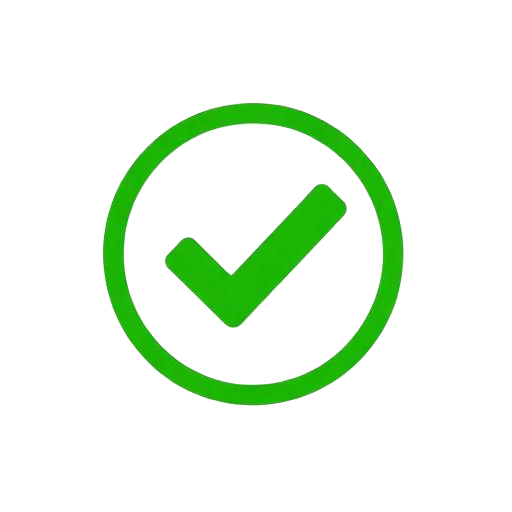
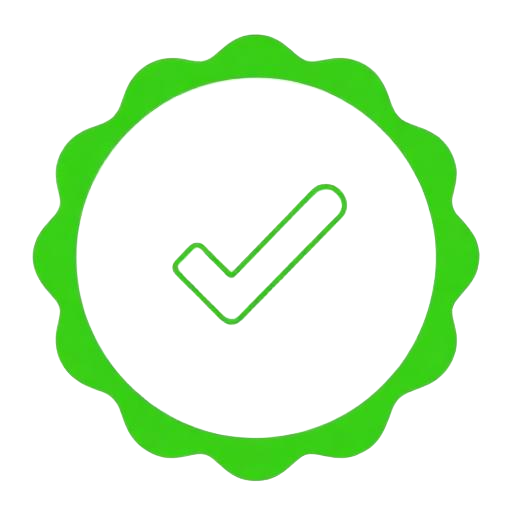
Update follows and badge flow

Changed region(s): [[0.0625, 0.0625, 0.9375, 0.9375], [0.3125, 0.3438, 0.6875, 0.6562]]

diff --git a/src/pages/ViewProfilePage.tsx b/src/pages/ViewProfilePage.tsx
@@ -31,6 +31,7 @@ const ViewProfilePage = () => {
   const [selectedPhoto, setSelectedPhoto] = useState<string | null>(null);
   const [hasLiked, setHasLiked] = useState(false);
   const [isFollowing, setIsFollowing] = useState(false);
+  const [theyFollowMe, setTheyFollowMe] = useState(false);
   const [followersCount, setFollowersCount] = useState(0);
   const [followingCount, setFollowingCount] = useState(0);
   const [mutualText, setMutualText] = useState("");
@@ -44,6 +45,7 @@ const ViewProfilePage = () => {
     if (!user || !id) return;
     checkLiked();
     checkFollowing();
+    checkTheyFollowMe();
     fetchFollowCounts();
     fetchMutuals();
   }, [user, id]);
@@ -86,6 +88,16 @@ const ViewProfilePage = () => {
     setIsFollowing(!!data);
   };
 
+  const checkTheyFollowMe = async () => {
+    const { data } = await supabase
+      .from("follows")
+      .select("id")
+      .eq("follower_id", id!)
+      .eq("following_id", user!.id)
+      .maybeSingle();
+    setTheyFollowMe(!!data);
+  };
+
   const fetchFollowCounts = async () => {
     const [{ count: followers }, { count: following }] = await Promise.all([
       supabase.from("follows").select("id", { count: "exact", head: true }).eq("following_id", id!),
@@ -97,12 +109,10 @@ const ViewProfilePage = () => {
 
   const fetchMutuals = async () => {
     if (!user || !id || user.id === id) return;
-    // A = users current_user follows
     const { data: myFollowing } = await supabase
       .from("follows")
       .select("following_id")
       .eq("follower_id", user.id);
-    // B = users who follow profile_user
     const { data: theirFollowers } = await supabase
       .from("follows")
       .select("follower_id")
@@ -141,11 +151,19 @@ const ViewProfilePage = () => {
       to_user_id: profile.id,
       is_like: true,
     });
+    // Fetch current user's name for notification
+    const { data: myProfile } = await supabase
+      .from("profiles")
+      .select("name")
+      .eq("id", user.id)
+      .single();
+    const myName = myProfile?.name || "Someone";
     await supabase.from("notifications").insert({
       user_id: profile.id,
       type: "like",
-      title: "Someone liked you!",
-      message: "A student liked your profile 💕",
+      title: `${myName} liked your profile!`,
+      message: `${myName} liked your profile 💕`,
+      related_id: user.id,
     });
     setHasLiked(true);
   };
@@ -160,7 +178,28 @@ const ViewProfilePage = () => {
       await supabase.from("follows").insert({ follower_id: user.id, following_id: profile.id });
       setIsFollowing(true);
       setFollowersCount(c => c + 1);
+      // Send follow notification
+      const { data: myProfile } = await supabase
+        .from("profiles")
+        .select("name")
+        .eq("id", user.id)
+        .single();
+      const myName = myProfile?.name || "Someone";
+      await supabase.from("notifications").insert({
+        user_id: profile.id,
+        type: "follow",
+        title: `${myName} followed you!`,
+        message: `${myName} started following you 👋`,
+        related_id: user.id,
+      });
     }
+  };
+
+  // Determine follow button label
+  const getFollowLabel = () => {
+    if (isFollowing) return "Following";
+    if (theyFollowMe) return "Follow Back";
+    return "Follow";
   };
 
   if (loading) {
@@ -199,7 +238,7 @@ const ViewProfilePage = () => {
           </button>
           <h1 className="font-display text-lg font-bold text-foreground">{profile.name}</h1>
           {profile.is_verified && (
-            <img src={verifiedBadge} alt="Verified" className="h-[25px] w-[25px]" />
+            <img src={verifiedBadge} alt="Verified" className="h-[25px] w-[25px] object-contain" />
           )}
         </div>
       </div>
@@ -244,7 +283,7 @@ const ViewProfilePage = () => {
             }`}
           >
             {isFollowing ? <UserCheck className="h-4 w-4" /> : <UserPlus className="h-4 w-4" />}
-            {isFollowing ? "Following" : "Follow"}
+            {getFollowLabel()}
           </button>
         )}
 

diff --git a/src/pages/NotificationsPage.tsx b/src/pages/NotificationsPage.tsx
@@ -2,7 +2,7 @@ import { useState, useEffect } from "react";
 import BottomNav from "@/components/BottomNav";
 import { useAuth } from "@/contexts/AuthContext";
 import { supabase } from "@/integrations/supabase/client";
-import { ArrowLeft, Bell, Heart, Users, Shield, Search as SearchIcon, MessageCircle, Check } from "lucide-react";
+import { ArrowLeft, Bell, Heart, Users, Shield, Search as SearchIcon, MessageCircle, Check, UserPlus } from "lucide-react";
 import { useNavigate } from "react-router-dom";
 
 interface Notification {
@@ -12,11 +12,13 @@ interface Notification {
   message: string;
   is_read: boolean;
   created_at: string;
+  related_id: string | null;
 }
 
 const typeIcons: Record<string, React.ReactNode> = {
   like: <Heart className="h-4 w-4 text-pink-500" />,
   match: <Users className="h-4 w-4 text-primary" />,
+  follow: <UserPlus className="h-4 w-4 text-primary" />,
   verification: <Shield className="h-4 w-4 text-accent" />,
   lost_found: <SearchIcon className="h-4 w-4 text-muted-foreground" />,
   confession: <MessageCircle className="h-4 w-4 text-secondary" />,
@@ -55,11 +57,18 @@ const NotificationsPage = () => {
     setLoading(false);
   };
 
-  const markAsRead = async (id: string) => {
-    await supabase.from("notifications").update({ is_read: true }).eq("id", id);
-    setNotifications((prev) =>
-      prev.map((n) => (n.id === id ? { ...n, is_read: true } : n))
-    );
+  const handleNotificationClick = async (notif: Notification) => {
+    // Mark as read
+    if (!notif.is_read) {
+      await supabase.from("notifications").update({ is_read: true }).eq("id", notif.id);
+      setNotifications((prev) =>
+        prev.map((n) => (n.id === notif.id ? { ...n, is_read: true } : n))
+      );
+    }
+    // Redirect to sender profile if related_id exists
+    if (notif.related_id && (notif.type === "like" || notif.type === "follow" || notif.type === "match")) {
+      navigate(`/profile/${notif.related_id}`);
+    }
   };
 
   const markAllRead = async () => {
@@ -106,7 +115,7 @@ const NotificationsPage = () => {
           notifications.map((notif) => (
             <button
               key={notif.id}
-              onClick={() => markAsRead(notif.id)}
+              onClick={() => handleNotificationClick(notif)}
               className={`w-full text-left rounded-2xl p-4 transition-all ${
                 notif.is_read ? "bg-card" : "bg-primary/5 border border-primary/10"
               }`}

diff --git a/src/components/BottomNav.tsx b/src/components/BottomNav.tsx
@@ -6,7 +6,7 @@ const navItems = [
   { icon: Users, label: "Friends", path: "/matches" },
   { icon: Megaphone, label: "Notices", path: "/notices" },
   { icon: MessageCircle, label: "Confess", path: "/confessions" },
-  { icon: Search, label: "Lost", path: "/lost-found" },
+  { icon: Search, label: "Lost & Found", path: "/lost-found" },
 ];
 
 const BottomNav = () => {
